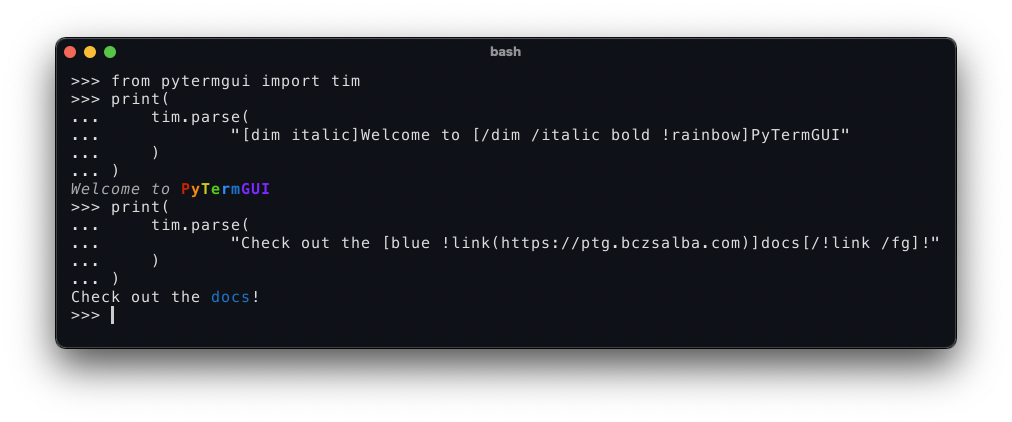
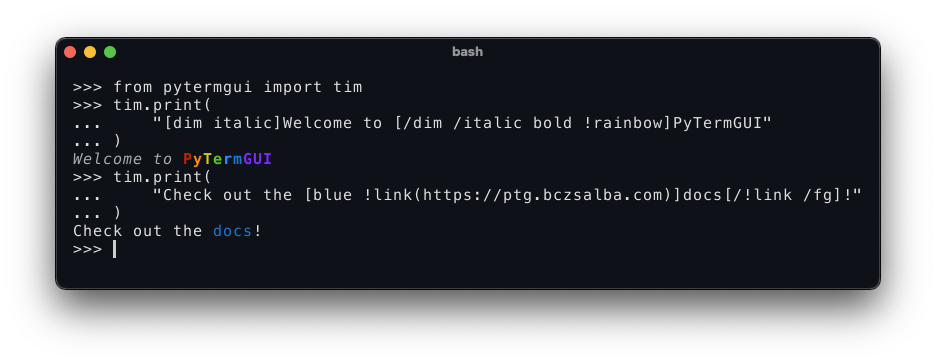
Use `tim.print` instead of `print(tim.parse)` in README

Changed region(s): [[0.031, 0.0606, 0.9605, 0.8788]]

diff --git a/README.md b/README.md
@@ -52,8 +52,8 @@ TIM, our **T**erminal **I**nline **M**arkup language provides an easy to read, s
 ```python3
 from pytermgui import tim
 
-print(tim.parse("[dim italic]Welcome to [/dim /italic bold !rainbow]PyTermGUI"))
-print(tim.parse("Check out the [blue !link(https://ptg.bczsalba.com)]docs[/!link /fg]!"))
+tim.print("[dim italic]Welcome to [/dim /italic bold !rainbow]PyTermGUI"))
+tim.print("Check out the [blue !link(https://ptg.bczsalba.com)]docs[/!link /fg]!"))
 ```
 
 ![TIM example](https://github.com/bczsalba/pytermgui/raw/master/assets/readme/tim.png)
